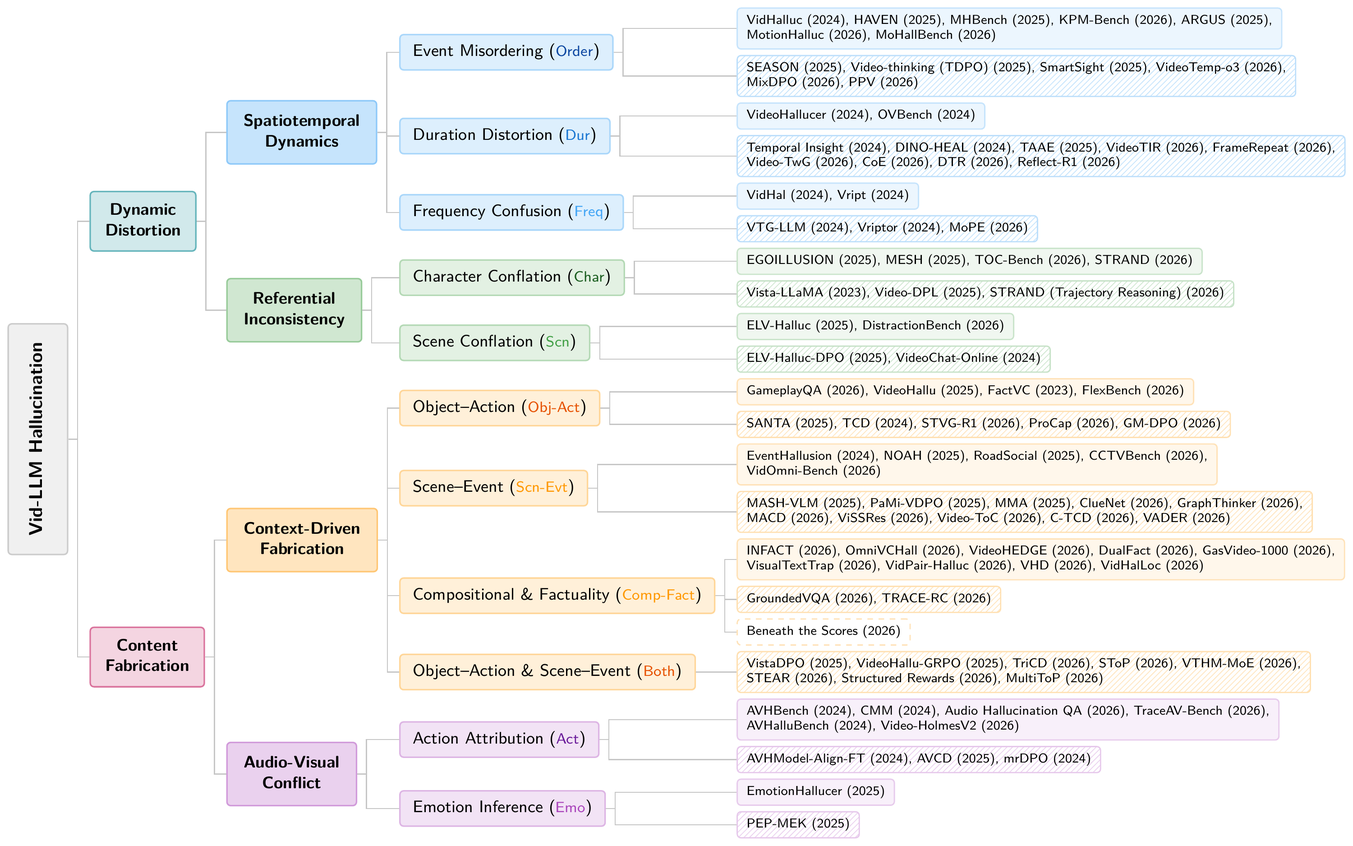
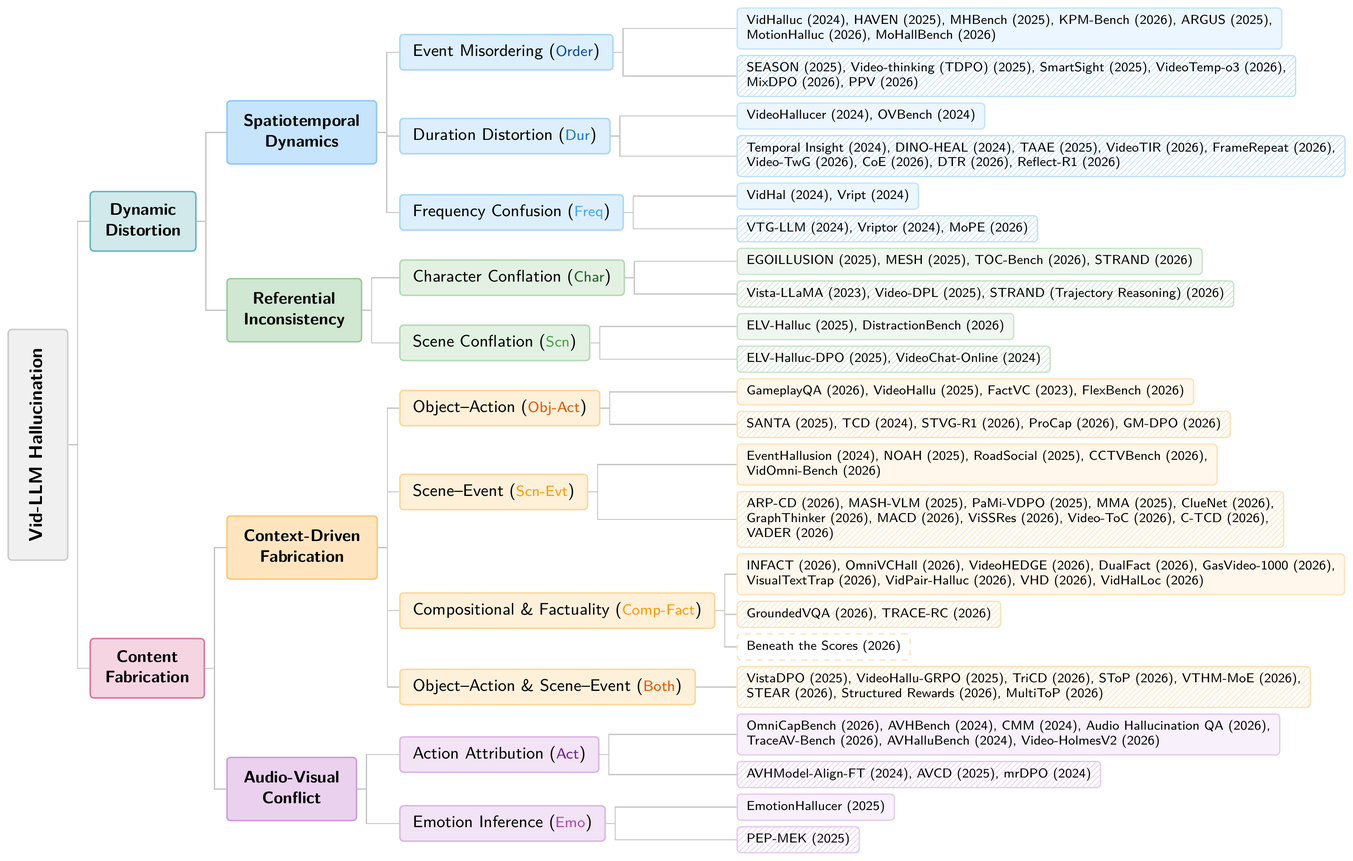
Curate November video hallucination papers and refresh taxonomy

diff --git a/figs/taxonomy_tree.tex b/figs/taxonomy_tree.tex
@@ -96,7 +96,7 @@
         ]
         [{Scene--Event ({\footnotesize\textcolor{coocSE}{Scn-Evt}})}, L2C
           [{EventHallusion (2024), NOAH (2025), RoadSocial (2025), CCTVBench (2026),\\VidOmni-Bench (2026)}, benchC]
-          [{MASH-VLM (2025), PaMi-VDPO (2025), MMA (2025), ClueNet (2026), GraphThinker (2026),\\MACD (2026), ViSSRes (2026), Video-ToC (2026), C-TCD (2026), VADER (2026)}, methC]
+          [{ARP-CD (2026), MASH-VLM (2025), PaMi-VDPO (2025), MMA (2025), ClueNet (2026),\\GraphThinker (2026), MACD (2026), ViSSRes (2026), Video-ToC (2026), C-TCD (2026),\\VADER (2026)}, methC]
         ]
         [{Compositional \& Factuality ({\footnotesize\textcolor{coocSE}{Comp-Fact}})}, L2C
           [{INFACT (2026), OmniVCHall (2026), VideoHEDGE (2026), DualFact (2026), GasVideo-1000 (2026),\\VisualTextTrap (2026), VidPair-Halluc (2026), VHD (2026), VidHalLoc (2026)}, benchC]
@@ -109,7 +109,7 @@
       ]
       [{\textbf{Audio-Visual}\\\textbf{Conflict}}, L1V
         [{Action Attribution ({\footnotesize\textcolor{audioAA}{Act}})}, L2V
-          [{AVHBench (2024), CMM (2024), Audio Hallucination QA (2026), TraceAV-Bench (2026),\\AVHalluBench (2024), Video-HolmesV2 (2026)}, benchV]
+          [{OmniCapBench (2026), AVHBench (2024), CMM (2024), Audio Hallucination QA (2026),\\TraceAV-Bench (2026), AVHalluBench (2024), Video-HolmesV2 (2026)}, benchV]
           [{AVHModel-Align-FT (2024), AVCD (2025), mrDPO (2024)}, methV]
         ]
         [{Emotion Inference ({\footnotesize\textcolor{audioEI}{Emo}})}, L2V

diff --git a/tests/test_readme.py b/tests/test_readme.py
@@ -34,18 +34,18 @@ class ReadmeTests(unittest.TestCase):
     def test_sorting_does_not_mutate_catalog(self):
         before = copy.deepcopy(self.entries)
         ordered = newest_first(self.entries, self.metadata['papers'])
-        self.assertEqual(ordered[0]['arxiv_id'], '2609.36628')
+        self.assertEqual(ordered[0]['arxiv_id'], '2610.19728')
         self.assertEqual(ordered[-1]['arxiv_id'], '2303.02961')
         self.assertEqual(self.entries, before)
 
     def test_recent_additions_use_history_and_link_all_sibling_contributions(self):
         output = recently_added(self.entries, self.metadata)
-        self.assertIn('2026-10-01 &middot; 7 papers', output)
+        self.assertIn('2026-11-01 &middot; 2 papers', output)
         self.assertNotIn('<details open>', output)
         doc = Document()
         doc.feed(output)
         expected = [anchor(e) for e in self.entries
-                    if self.metadata['papers'][e['arxiv_id'] or e['paper_url']]['added']['date'] == '2026-10-01']
+                    if self.metadata['papers'][e['arxiv_id'] or e['paper_url']]['added']['date'] == '2026-11-01']
         self.assertCountEqual([href[1:] for href in doc.links if href.startswith('#')], expected)
 
     def test_unknown_addition_dates_are_not_invented_and_large_batches_are_bounded(self):

diff --git a/scripts/generate_relevance_review.py b/scripts/generate_relevance_review.py
@@ -52,6 +52,9 @@ def render(data, metadata):
              'and captioning model have broader purposes. Do not transfer a subset-level claim to the whole suite.',
              '- **VHD / TRACE-RC:** the method changes reliability ordering and accepted coverage, not model answers. '
              'Its placement among mitigation strategies means selective risk reduction, not factual correction.',
+             '- **OmniCapBench:** a broader audio-visual captioning benchmark whose localized precision penalizes '
+             'unsupported descriptions. Structural deficits and semantic hallucination measures are not interchangeable; '
+             'the Action Attribution index does not imply exclusive coverage.',
              '- **FactVC and Temporal Insight:** retain their explicit factuality/temporal-hallucination framing, '
              'but note that caption factuality or timestamp localization is not interchangeable with generative '
              'VideoLLM hallucination metrics.', '',

diff --git a/README.md b/README.md
@@ -1,12 +1,12 @@
 # Awesome-Video-Hallucination [![Awesome](https://awesome.re/badge.svg)](https://awesome.re)
 
-[![arXiv](https://img.shields.io/badge/arXiv-2604.12944-b31b1b.svg)](https://arxiv.org/abs/2604.12944) [![ACL 2026 Findings](https://img.shields.io/badge/ACL%202026-Findings-2ea44f)](https://arxiv.org/abs/2604.12944) [![Entries](https://img.shields.io/badge/Entries-95-blue.svg)](#evaluation-benchmarks) [![Auto arXiv Update](https://img.shields.io/badge/arXiv%20Update-Monthly-blueviolet.svg)](new_papers.md) [![License: MIT](https://img.shields.io/badge/License-MIT-yellow.svg)](LICENSE) [![Last Commit](https://img.shields.io/github/last-commit/hukcc/Awesome-Video-Hallucination)](https://github.com/hukcc/Awesome-Video-Hallucination/commits/main)
+[![arXiv](https://img.shields.io/badge/arXiv-2604.12944-b31b1b.svg)](https://arxiv.org/abs/2604.12944) [![ACL 2026 Findings](https://img.shields.io/badge/ACL%202026-Findings-2ea44f)](https://arxiv.org/abs/2604.12944) [![Entries](https://img.shields.io/badge/Entries-97-blue.svg)](#evaluation-benchmarks) [![Auto arXiv Update](https://img.shields.io/badge/arXiv%20Update-Monthly-blueviolet.svg)](new_papers.md) [![License: MIT](https://img.shields.io/badge/License-MIT-yellow.svg)](LICENSE) [![Last Commit](https://img.shields.io/github/last-commit/hukcc/Awesome-Video-Hallucination)](https://github.com/hukcc/Awesome-Video-Hallucination/commits/main)
 
-A curated paper list on **hallucination in Video Large Language Models (Vid-LLMs)**, covering **42 benchmarks**, **52 mitigation methods**, and **1 evaluation analysis**. The 95 entries represent 78 distinct papers; a paper may contribute both a benchmark and a method. Updated monthly via arXiv search and manual review.
+A curated paper list on **hallucination in Video Large Language Models (Vid-LLMs)**, covering **43 benchmarks**, **53 mitigation methods**, and **1 evaluation analysis**. The 97 entries represent 80 distinct papers; a paper may contribute both a benchmark and a method. Updated monthly via arXiv search and manual review.
 
 > 📄 **Survey Paper**: *[Distorted or Fabricated? A Survey on Hallucination in Video LLMs](https://arxiv.org/abs/2604.12944)*
 
-> 🔎 **Interactive Browser**: [Browse 78 papers](https://hukcc.github.io/Awesome-Video-Hallucination/) with source-backed summaries, task tags, combined filters, and table or card views.
+> 🔎 **Interactive Browser**: [Browse 80 papers](https://hukcc.github.io/Awesome-Video-Hallucination/) with source-backed summaries, task tags, combined filters, and table or card views.
 
 ![Framework overview](imgs/teaser.png)
 
@@ -14,8 +14,8 @@ A curated paper list on **hallucination in Video Large Language Models (Vid-LLMs
 
 - [Find Your Papers](#find-your-papers)
 - [Taxonomy of Video Hallucinations](#taxonomy-of-video-hallucinations)
-- [Evaluation Benchmarks](#evaluation-benchmarks) — 42 benchmarks
-- [Mitigation Strategies](#mitigation-strategies) — 52 methods
+- [Evaluation Benchmarks](#evaluation-benchmarks) — 43 benchmarks
+- [Mitigation Strategies](#mitigation-strategies) — 53 methods
 - [Evaluation Analyses](#evaluation-analyses) — 1 analysis
 - [Citation](#citation)
 - [Contributing](#contributing)
@@ -24,9 +24,9 @@ A curated paper list on **hallucination in Video Large Language Models (Vid-LLMs
 
 ## Latest Updates
 
+- **[2026/11]** Added OmniCapBench and ARP-CD after reviewing 7 candidates. [Review log](new_papers.md#reviewed---2026-11-01).
 - **[2026/10]** Added 7 papers, introduced evaluation analyses, and updated the taxonomy. [Review log](new_papers.md).
 - **[2026/09]** Added 2 hallucination mitigation papers.
-- **[2026/08]** Added 6 papers and updated the taxonomy.
 - **[2026/04]** Our [survey](https://arxiv.org/abs/2604.12944) was accepted to **ACL 2026 Findings**.
 
 <!-- BEGIN RECENT PAPERS -->
@@ -65,14 +65,15 @@ A curated paper list on **hallucination in Video Large Language Models (Vid-LLMs
 #### Browse by Task
 
 <details>
-<summary><b>Task index</b> &middot; 9 topics &middot; 78 papers</summary>
+<summary><b>Task index</b> &middot; 9 topics &middot; 80 papers</summary>
 
 <p><sub>Paper-level task tags. Newest first; links lead to individual contributions below.</sub></p>
 
 <details>
-<summary><b>Audio-Visual Understanding</b> (10 papers)</summary>
+<summary><b>Audio-Visual Understanding</b> (11 papers)</summary>
 
 <p>
+<a href="#paper-benchmark--audio-visual-conflict--action-attribution--omnicapbench--2610-12458">OmniCapBench</a> &middot;
 <a href="#paper-benchmark--audio-visual-conflict--action-attribution--video-holmesv2--2609-17248">Video-HolmesV2</a> &middot;
 <a href="#paper-benchmark--audio-visual-conflict--action-attribution--traceav-bench--2605-07593">TraceAV-Bench</a> &middot;
 <a href="#paper-benchmark--audio-visual-conflict--action-attribution--audio-hallucination-qa--2604-23860">Audio Hallucination QA</a> &middot;
@@ -88,9 +89,10 @@ A curated paper list on **hallucination in Video Large Language Models (Vid-LLMs
 </details>
 
 <details>
-<summary><b>Hallucination Detection</b> (24 papers)</summary>
+<summary><b>Hallucination Detection</b> (25 papers)</summary>
 
 <p>
+<a href="#paper-benchmark--audio-visual-conflict--action-attribution--omnicapbench--2610-12458">OmniCapBench</a> &middot;
 <a href="#paper-analysis--context-driven-fabrication--compositional-and-factuality-hallucination--beneath-the-scores--2609-28991">Beneath the Scores</a> &middot;
 <a href="#paper-benchmark--context-driven-fabrication--scene-event-hallucination--vidomni-bench--2609-21521">VidOmni-Bench</a> &middot;
 <a href="#paper-benchmark--context-driven-fabrication--compositional-and-factuality-hallucination--vhd--2609-13288">VHD</a> / <a href="#paper-mitigation--context-driven-fabrication--compositional-and-factuality-hallucination--trace-rc--2609-13288">TRACE-RC</a> &middot;
@@ -155,9 +157,10 @@ A curated paper list on **hallucination in Video Large Language Models (Vid-LLMs
 </details>
 
 <details>
-<summary><b>Temporal Grounding</b> (7 papers)</summary>
+<summary><b>Temporal Grounding</b> (8 papers)</summary>
 
 <p>
+<a href="#paper-benchmark--audio-visual-conflict--action-attribution--omnicapbench--2610-12458">OmniCapBench</a> &middot;
 <a href="#paper-mitigation--spatiotemporal-dynamics--duration-distortion--video-twg--2602-18702">Video-TwG</a> &middot;
 <a href="#paper-mitigation--context-driven-fabrication--scene-event-hallucination--graphthinker--2602-17555">GraphThinker</a> &middot;
 <a href="#paper-mitigation--context-driven-fabrication--object-action-hallucination--stvg-r1--2602-11730">STVG-R1</a> &middot;
@@ -170,9 +173,11 @@ A curated paper list on **hallucination in Video Large Language Models (Vid-LLMs
 </details>
 
 <details>
-<summary><b>Video Captioning</b> (15 papers)</summary>
+<summary><b>Video Captioning</b> (17 papers)</summary>
 
 <p>
+<a href="#paper-mitigation--context-driven-fabrication--scene-event-hallucination--arp-cd--2610-19728">ARP-CD</a> &middot;
+<a href="#paper-benchmark--audio-visual-conflict--action-attribution--omnicapbench--2610-12458">OmniCapBench</a> &middot;
 <a href="#paper-benchmark--context-driven-fabrication--object-action-hallucination--flexbench--2609-36628">FlexBench</a> / <a href="#paper-mitigation--context-driven-fabrication--object-action-hallucination--gm-dpo--2609-36628">GM-DPO</a> &middot;
 <a href="#paper-benchmark--context-driven-fabrication--scene-event-hallucination--vidomni-bench--2609-21521">VidOmni-Bench</a> &middot;
 <a href="#paper-benchmark--context-driven-fabrication--compositional-and-factuality-hallucination--vidhalloc--2609-09895">VidHalLoc</a> &middot;
@@ -193,9 +198,10 @@ A curated paper list on **hallucination in Video Large Language Models (Vid-LLMs
 </details>
 
 <details>
-<summary><b>Video QA</b> (41 papers)</summary>
+<summary><b>Video QA</b> (42 papers)</summary>
 
 <p>
+<a href="#paper-mitigation--context-driven-fabrication--scene-event-hallucination--arp-cd--2610-19728">ARP-CD</a> &middot;
 <a href="#paper-analysis--context-driven-fabrication--compositional-and-factuality-hallucination--beneath-the-scores--2609-28991">Beneath the Scores</a> &middot;
 <a href="#paper-benchmark--audio-visual-conflict--action-attribution--video-holmesv2--2609-17248">Video-HolmesV2</a> &middot;
 <a href="#paper-benchmark--context-driven-fabrication--compositional-and-factuality-hallucination--vhd--2609-13288">VHD</a> / <a href="#paper-mitigation--context-driven-fabrication--compositional-and-factuality-hallucination--trace-rc--2609-13288">TRACE-RC</a> &middot;
@@ -374,7 +380,7 @@ A curated paper list on **hallucination in Video Large Language Models (Vid-LLMs
         <sub><a href="#paper-mitigation--spatiotemporal-dynamics--event-misordering--ppv--2606-23061">Related method: PPV</a></sub></td>
       <td align="center"><b>MotionHalluc</b></td>
       <td align="center">arXiv 2026<br><sub>06/2026</sub></td>
-      <td align="center"><a href="https://huggingface.co/datasets/motionhalluc/MotionHalluc"><img src="https://img.shields.io/badge/Dataset-HuggingFace-yellow?logo=huggingface" alt="dataset" title="Dataset" /></a></td>
+      <td align="center"><a href="https://github.com/Leocoding0971/MotionHalluc"><img src="https://img.shields.io/badge/Code-Link-blue?logo=github" alt="code" title="Code" /></a> <a href="https://huggingface.co/datasets/motionhalluc/MotionHalluc"><img src="https://img.shields.io/badge/Dataset-HuggingFace-yellow?logo=huggingface" alt="dataset" title="Dataset" /></a></td>
     </tr>
     <tr>
       <td align="left"><a id="paper-benchmark--spatiotemporal-dynamics--event-misordering--kpm-bench--2602-17768"></a><b><a href="https://arxiv.org/abs/2602.17768">KPM-Bench: A Kinematic Parsing Motion Benchmark for Fine-grained Motion-centric Video Understanding</a></b><br>
@@ -759,7 +765,7 @@ A curated paper list on **hallucination in Video Large Language Models (Vid-LLMs
 ### 🟣 Audio-Visual Conflict Benchmarks (Content Fabrication)
 
 <details open>
-<summary><b>Action Attribution</b> (6 entries)</summary>
+<summary><b>Action Attribution</b> (7 entries)</summary>
 
 <table width="100%">
   <thead>
@@ -771,6 +777,13 @@ A curated paper list on **hallucination in Video Large Language Models (Vid-LLMs
     </tr>
   </thead>
   <tbody>
+    <tr>
+      <td align="left"><a id="paper-benchmark--audio-visual-conflict--action-attribution--omnicapbench--2610-12458"></a><b><a href="https://arxiv.org/abs/2610.12458">OmniCapBench: A Deep-Structured Evaluation Framework for Fine-Grained Audio-Visual Captioning</a></b><br>
+        <sub>Evaluates structured audio-visual captions using grounded precision, identity consistency, and event-shot association to expose hallucinated descriptions and cross-modal attribution errors.</sub></td>
+      <td align="center"><b>OmniCapBench</b></td>
+      <td align="center">NeurIPS 2026 E&amp;D<br><sub>10/2026</sub></td>
+      <td align="center"><a href="https://01yzzyu.github.io/OmniCapBench/"><img src="https://img.shields.io/badge/Page%20%F0%9F%94%97-Link-228B22?logo=readthedocs&amp;logoColor=white" alt="page" title="Project Page" /></a> <a href="https://github.com/Tencent-Hunyuan/OmniCapBench"><img src="https://img.shields.io/badge/Code-Link-blue?logo=github" alt="code" title="Code" /></a> <a href="https://huggingface.co/datasets/OmniCapBench/OmniCapBench"><img src="https://img.shields.io/badge/Dataset-HuggingFace-yellow?logo=huggingface" alt="dataset" title="Dataset" /></a> <a href="https://01yzzyu.github.io/OmniCapBench/#leaderboard"><img src="https://img.shields.io/badge/Page%20%F0%9F%94%97-Leaderboard-228B22?logo=readthedocs&amp;logoColor=white" alt="leaderboard" title="Leaderboard" /></a></td>
+    </tr>
     <tr>
       <td align="left"><a id="paper-benchmark--audio-visual-conflict--action-attribution--video-holmesv2--2609-17248"></a><b><a href="https://arxiv.org/abs/2609.17248">Video-HolmesV2: Can MLLMs Reason with Spatio-Temporal Audio-Visual Evidence in Long Videos?</a></b><br>
         <sub>Requires long-video answers to cite precise audio-visual evidence, using evidence-aware scoring to penalize guessing and fabricated support.</sub></td>
@@ -877,7 +890,7 @@ A curated paper list on **hallucination in Video Large Language Models (Vid-LLMs
       <td align="center"><b>PPV</b></td>
       <td align="center">arXiv 2026<br><sub>06/2026</sub></td>
       <td align="center"><span title="Training-free: Yes">✔</span></td>
-      <td align="center"><a href="https://huggingface.co/datasets/motionhalluc/MotionHalluc"><img src="https://img.shields.io/badge/Dataset-HuggingFace-yellow?logo=huggingface" alt="dataset" title="Dataset" /></a></td>
+      <td align="center"><a href="https://github.com/Leocoding0971/MotionHalluc"><img src="https://img.shields.io/badge/Code-Link-blue?logo=github" alt="code" title="Code" /></a> <a href="https://huggingface.co/datasets/motionhalluc/MotionHalluc"><img src="https://img.shields.io/badge/Dataset-HuggingFace-yellow?logo=huggingface" alt="dataset" title="Dataset" /></a></td>
     </tr>
     <tr>
       <td align="left"><a id="paper-mitigation--spatiotemporal-dynamics--event-misordering--videotemp-o3--2602-07801"></a><b><a href="https://arxiv.org/abs/2602.07801">VideoTemp-o3: Harmonizing Temporal Grounding and Video Understanding in Agentic Thinking-with-Videos</a></b><br>
@@ -1209,7 +1222,7 @@ A curated paper list on **hallucination in Video Large Language Models (Vid-LLMs
 </details>
 
 <details open>
-<summary><b>Scene-Event Hallucination</b> (10 entries)</summary>
+<summary><b>Scene-Event Hallucination</b> (11 entries)</summary>
 
 <table width="100%">
   <thead>
@@ -1222,6 +1235,14 @@ A curated paper list on **hallucination in Video Large Language Models (Vid-LLMs
     </tr>
   </thead>
   <tbody>
+    <tr>
+      <td align="left"><a id="paper-mitigation--context-driven-fabrication--scene-event-hallucination--arp-cd--2610-19728"></a><b><a href="https://arxiv.org/abs/2610.19728">Mitigating Video Hallucinations via Attention-Guided Representation Perturbation</a></b><br>
+        <sub>Constructs attention-suppressed visual representations as contrastive decoding negatives to reduce unsupported video responses without updating model parameters.</sub></td>
+      <td align="center"><b>ARP-CD</b></td>
+      <td align="center">arXiv 2026<br><sub>10/2026</sub></td>
+      <td align="center"><span title="Training-free: Yes">✔</span></td>
+      <td align="center">-</td>
+    </tr>
     <tr>
       <td align="left"><a id="paper-mitigation--context-driven-fabrication--scene-event-hallucination--vader--2608-08622"></a><b><a href="https://arxiv.org/abs/2608.08622">VADER: Adaptive Debiasing for Hallucination Mitigation in Video Large Language Models</a></b><br>
         <sub>Adaptively reweights visual attention and contrasts selectively erased evidence to suppress prior-driven video hallucinations without training.</sub></td>
@@ -1572,8 +1593,8 @@ See the [curation guide](docs/CURATION.md) for summary sources, task-tag definit
 
 Resource gaps tracked in [`data/papers.json`](data/papers.json):
 
-- Add official code links for **47** entries. Browse: [missing code](https://hukcc.github.io/Awesome-Video-Hallucination/?resource=missing-code)
-- Add official project pages for **78** entries. Browse: [missing project pages](https://hukcc.github.io/Awesome-Video-Hallucination/?resource=missing-project)
+- Add official code links for **46** entries. Browse: [missing code](https://hukcc.github.io/Awesome-Video-Hallucination/?resource=missing-code)
+- Add official project pages for **79** entries. Browse: [missing project pages](https://hukcc.github.io/Awesome-Video-Hallucination/?resource=missing-project)
 - Add official dataset or leaderboard links when available.
 
 <details>

diff --git a/docs/RELEVANCE_REVIEW.md b/docs/RELEVANCE_REVIEW.md
@@ -2,9 +2,9 @@
 
 Editorial scope assessment, not a quality ranking or a removal decision. All existing papers, contributions, links, and taxonomy placements remain unchanged.
 
-Coverage: **78 papers / 95 contributions**. All abstracts were reviewed; **21 papers** additionally received introduction review, with evaluation sections inspected where indicated. This is not a full-text audit of every paper.
+Coverage: **80 papers / 97 contributions**. All abstracts were reviewed; **25 papers** additionally received introduction review, with evaluation sections inspected where indicated. This is not a full-text audit of every paper.
 
-Latest review: **2026-10-01**. **59 direct-focus**, **11 broader-evaluation**, and **8 related-work candidates**.
+Latest review: **2026-11-01**. **60 direct-focus**, **12 broader-evaluation**, and **8 related-work candidates**.
 
 ## Criteria
 
@@ -25,6 +25,7 @@ Do **not** exclude OVBench, RoadSocial, CoE, Video-ToC, or SToP solely from thei
 - **OVBench / VideoChat-Online:** the Temporal Hallucination Verification subset justifies paper-level inclusion; the model is still a general streaming-video architecture, not a dedicated mitigation design.
 - **Vript / Vriptor:** Vript-HAL is a hallucination benchmark, while the corpus, other benchmark tasks, and captioning model have broader purposes. Do not transfer a subset-level claim to the whole suite.
 - **VHD / TRACE-RC:** the method changes reliability ordering and accepted coverage, not model answers. Its placement among mitigation strategies means selective risk reduction, not factual correction.
+- **OmniCapBench:** a broader audio-visual captioning benchmark whose localized precision penalizes unsupported descriptions. Structural deficits and semantic hallucination measures are not interchangeable; the Action Attribution index does not imply exclusive coverage.
 - **FactVC and Temporal Insight:** retain their explicit factuality/temporal-hallucination framing, but note that caption factuality or timestamp localization is not interchangeable with generative VideoLLM hallucination metrics.
 
 ## Evidence Register
@@ -50,6 +51,7 @@ Each row links both the existing README contribution and the exact reviewed sour
 | --- | --- | --- |
 | [CoE](../README.md#paper-mitigation--spatiotemporal-dynamics--duration-distortion--coe--2601-07761) | General evidence-grounded reasoning framework explicitly evaluates mitigation on VidHal and EventHall, beyond its general QA results. | [Abstract; Introduction; Sections 4.1-4.2 (VidHal and EventHall evaluation)](https://arxiv.org/html/2601.07761v2) |
 | [GameplayQA](../README.md#paper-benchmark--context-driven-fabrication--object-action-hallucination--gameplayqa--2603-24329) | Agent-centric video understanding benchmark explicitly diagnoses temporal, role, and fabricated-content errors through structured distractors. | [Abstract; Introduction (structured distractor taxonomy)](https://arxiv.org/html/2603.24329v2) |
+| [OmniCapBench](../README.md#paper-benchmark--audio-visual-conflict--action-attribution--omnicapbench--2610-12458) | Broader audio-visual captioning benchmark with explicit prediction-to-reference precision penalizing hallucinated descriptions and dedicated sound-to-shot and speaker-attribution diagnostics. | [Abstract; Introduction; Sections 3.2 and 4.1-4.3; Table 4](https://arxiv.org/html/2610.12458v1) |
 | [OVBench](../README.md#paper-benchmark--spatiotemporal-dynamics--duration-distortion--ovbench--2501-00584) / [VideoChat-Online](../README.md#paper-mitigation--referential-inconsistency--scene-conflation--videochat-online--2501-00584) | General streaming-video benchmark with a dedicated Temporal Hallucination Verification task; do not describe the entire benchmark or VideoChat-Online as hallucination-specific. | [Abstract; Introduction; Section 3.1 and Table 1 (Temporal Hallucination Verification)](https://arxiv.org/html/2501.00584v2) |
 | [RoadSocial](../README.md#paper-benchmark--context-driven-fabrication--scene-event-hallucination--roadsocial--2503-21459) | Road-event VideoQA includes non-road videos and irrelevant/adversarial questions specifically testing hallucination robustness; the broad title does not justify exclusion. | [Abstract; Introduction (robustness evaluation contribution)](https://arxiv.org/html/2503.21459v1) |
 | [SToP](../README.md#paper-mitigation--context-driven-fabrication--both-object-action-scene-event--stop--2604-20937) | Token-pruning study explicitly diagnoses and evaluates hallucinations on EventHallusion. Retain as broader evaluation; it is not equivalent to excluded EchoPrune. | [Abstract; Introduction (EventHallusion comparison and pruning analysis)](https://arxiv.org/html/2604.20937v2) |
@@ -65,6 +67,7 @@ Each row links both the existing README contribution and the exact reviewed sour
 | Paper / Contributions | Reason | Inspected Evidence |
 | --- | --- | --- |
 | [ARGUS](../README.md#paper-benchmark--spatiotemporal-dynamics--event-misordering--argus--2506-07371) | Measures unsupported statements and omissions in free-form video captions against human descriptions. | [Abstract](https://arxiv.org/html/2506.07371v2) |
+| [ARP-CD](../README.md#paper-mitigation--context-driven-fabrication--scene-event-hallucination--arp-cd--2610-19728) | Explicitly targets unsupported VideoLLM responses through contrastive decoding and evaluates both VideoHallucer and EventHallusion; optimization changes input representations, not model parameters. | [Abstract; Introduction; Sections 3.3-3.4 and 4.1; Appendix A.1-A.2](https://arxiv.org/html/2610.19728v1) |
 | [Audio Hallucination QA](../README.md#paper-benchmark--audio-visual-conflict--action-attribution--audio-hallucination-qa--2604-23860) | Directly measures imagined sounds inferred from visible but inaudible events in egocentric videos. | [Abstract](https://arxiv.org/html/2604.23860v1) |
 | [AVCD](../README.md#paper-mitigation--audio-visual-conflict--action-attribution--avcd--2505-20862) | Dedicated audio-visual hallucination mitigation through modality-aware contrastive decoding. | [Abstract](https://arxiv.org/html/2505.20862v2) |
 | [AVHalluBench](../README.md#paper-benchmark--audio-visual-conflict--action-attribution--avhallubench--2405-13684) | Includes a dedicated audio-visual hallucination benchmark within a multimodal hallucination-ranking study. | [Abstract](https://arxiv.org/html/2405.13684v1) |
@@ -94,7 +97,7 @@ Each row links both the existing README contribution and the exact reviewed sour
 | [MixDPO](../README.md#paper-mitigation--spatiotemporal-dynamics--event-misordering--mixdpo--2601-04778) | Counterfactual action videos and preference learning explicitly target action and temporal hallucinations. | [Abstract](https://arxiv.org/html/2601.04778v2) |
 | [MMA](../README.md#paper-mitigation--context-driven-fabrication--scene-event-hallucination--mma--hallucination-reduction-in-video-language-models-via-hierarchical-multimodal-consistency) | Publisher abstract explicitly targets video-language hallucination through hierarchical semantic alignment. | [Abstract](https://www.ijcai.org/proceedings/2025/1019) |
 | [MoHallBench](../README.md#paper-benchmark--spatiotemporal-dynamics--event-misordering--mohallbench--2607-01117) | Explicitly tests motions absent from video and distinguishes recognition from hallucination resistance. | [Abstract](https://arxiv.org/html/2607.01117v2) |
-| [MotionHalluc](../README.md#paper-benchmark--spatiotemporal-dynamics--event-misordering--motionhalluc--2606-23061) / [PPV](../README.md#paper-mitigation--spatiotemporal-dynamics--event-misordering--ppv--2606-23061) | Dedicated paired-video motion hallucination diagnosis with measurement-based verification. | [Abstract](https://arxiv.org/html/2606.23061v1) |
+| [MotionHalluc](../README.md#paper-benchmark--spatiotemporal-dynamics--event-misordering--motionhalluc--2606-23061) / [PPV](../README.md#paper-mitigation--spatiotemporal-dynamics--event-misordering--ppv--2606-23061) | Dedicated paired-video motion hallucination diagnosis with measurement-based verification. | [Abstract; Introduction; Sections 3.2 and 4](https://arxiv.org/html/2606.23061v2) |
 | [mrDPO](../README.md#paper-mitigation--audio-visual-conflict--action-attribution--mrdpo--2410-06682) | Captioning training explicitly optimizes hallucination and omission rates for audio-visual events. | [Abstract; Introduction (caption hallucination-rate evaluation)](https://arxiv.org/html/2410.06682v2) |
 | [MultiToP](../README.md#paper-mitigation--context-driven-fabrication--both-object-action-scene-event--multitop--2606-11792) | Explicit video hallucination mitigation through learned visual token patching, evaluated on Vript-HAL. | [Abstract](https://arxiv.org/html/2606.11792v2) |
 | [NOAH](../README.md#paper-benchmark--context-driven-fabrication--scene-event-hallucination--noah--2511-06475) | Controlled clip insertions measure narrative-prior hallucinations and omissions in video outputs. | [Abstract](https://arxiv.org/html/2511.06475v1) |
@@ -117,7 +120,7 @@ Each row links both the existing README contribution and the exact reviewed sour
 | [VidHal](../README.md#paper-benchmark--spatiotemporal-dynamics--frequency-confusion--vidhal--2411-16771) | Dedicated temporal hallucination benchmark with captions ordered by factual distortion. | [Abstract](https://arxiv.org/html/2411.16771v3) |
 | [VidHalLoc](../README.md#paper-benchmark--context-driven-fabrication--compositional-and-factuality-hallucination--vidhalloc--2609-09895) | Dedicated evaluation of video hallucination detectors on adversarial questions and captions. | [Abstract](https://arxiv.org/html/2609.09895v1) |
 | [VidHalluc](../README.md#paper-benchmark--spatiotemporal-dynamics--event-misordering--vidhalluc--2412-03735) / [DINO-HEAL](../README.md#paper-mitigation--spatiotemporal-dynamics--duration-distortion--dino-heal--2412-03735) | Explicitly evaluates video action, event-order, and transition hallucinations and introduces a mitigation intervention. | [Abstract](https://arxiv.org/html/2412.03735v2) |
-| [VidOmni-Bench](../README.md#paper-benchmark--context-driven-fabrication--scene-event-hallucination--vidomni-bench--2609-21521) | Directly tests whether generated caption events are supported by video and measures hallucination detection failures. | [Abstract](https://arxiv.org/html/2609.21521v1) |
+| [VidOmni-Bench](../README.md#paper-benchmark--context-driven-fabrication--scene-event-hallucination--vidomni-bench--2609-21521) | Directly tests whether generated caption events are supported by video and measures hallucination detection failures. | [Abstract; Introduction; Sections 3.1-3.4](https://arxiv.org/html/2609.21521v2) |
 | [VidPair-Halluc](../README.md#paper-benchmark--context-driven-fabrication--compositional-and-factuality-hallucination--vidpair-halluc--2606-31933) | Dedicated spatial and temporal hallucination evaluation with background-controlled video pairs. | [Abstract](https://arxiv.org/html/2606.31933v1) |
 | [ViSSRes](../README.md#paper-mitigation--context-driven-fabrication--scene-event-hallucination--stscd--2601-22574) | Explicitly learns video representation residuals for hallucination mitigation and evaluates EventHallusion. | [Abstract](https://arxiv.org/html/2601.22574v2) |
 | [Vista-LLaMA](../README.md#paper-mitigation--referential-inconsistency--character-conflation--vista-llama--2312-08870) | Explicitly targets video-conditioned generation drifting into unsupported text through visual-text attention changes. | [Abstract](https://arxiv.org/html/2312.08870v2) |

diff --git a/new_papers.md b/new_papers.md
@@ -2,7 +2,43 @@
 
 > Auto-generated by `arxiv_search.py`. Please review and classify into the appropriate sections in `README.md`.
 
-## Update — 2026-11-01
+## Reviewed - 2026-11-01
+
+All seven candidates were reviewed against their official abstracts and introductions, using the current arXiv versions linked below. Method and evaluation sections were additionally inspected for the two admitted papers and the borderline causal-reasoning paper. Two papers were added, four video-generation/editing papers were excluded, and one adjacent-domain candidate remains pending manual scope review. The curated collection contains **97 contributions from 80 papers: 43 benchmarks, 53 mitigation methods, and one analysis**. All previously collected entries and the eight existing manual-review candidates are retained.
+
+### Added to the curated list
+
+| Paper | Entry and primary category | Source-backed inclusion rationale |
+| --- | --- | --- |
+| [OmniCapBench](https://arxiv.org/abs/2610.12458) | Benchmark. Audio-Visual Conflict / Action Attribution. | [Sections 3.2 and 4.1-4.3, including Table 4](https://arxiv.org/html/2610.12458v1#S3.SS2), explicitly separate hallucination-sensitive precision from omission-sensitive recall. Event-Shot Association and Speaker F1 diagnose cross-modal attribution. This is a **broader evaluation**, not a hallucination-only benchmark; the primary index does not exclude its identity, temporal, and factuality coverage. |
+| [ARP-CD](https://arxiv.org/abs/2610.19728) | Mitigation. Context-Driven Fabrication / Scene-Event Hallucination. | [Sections 3.3-3.4 and 4.1, Appendix A.1-A.2](https://arxiv.org/html/2610.19728v1#S3.SS3), establish representation-level contrastive negatives and explicit VideoHallucer/EventHallusion evaluation. It is **training-free**: gradients optimize per-input visual states, not learned model parameters. The scene-event placement follows its contrastive-decoding peers; evaluation also covers other hallucination categories. |
+
+### Pending manual scope review (not added)
+
+- [From Cause to Effect: Generating Intermediate Event Chains in Videos](https://arxiv.org/abs/2610.26275): the [abstract, introduction, Sections 3.2, 4, 5.1-5.2, and Appendix N](https://arxiv.org/html/2610.26275v1) establish causal-chain generation, SODA-Embedding/Causal-QA, and SFT/GRPO training. Invented events are explicitly discussed, including qualitative examples, and the metrics probe missing or distorted causal facts. However, the reviewed evaluation reports semantic alignment and causal recoverability rather than a separately measured hallucination outcome. **Defer admission** under the narrower video-hallucination scope; this is not a claim of irrelevance. Neither its datasets nor its training recipe are automatically classified as dedicated hallucination contributions.
+
+### Excluded after review
+
+- [RoboWorM](https://arxiv.org/html/2610.33807v1#S1): the abstract and introduction evaluate physical and kinematic consistency of **generated robotic videos**, not unsupported language-model responses about input video.
+- [AnyGameRenderer](https://arxiv.org/html/2610.31466v3#S1): the abstract and introduction concern **video-to-video game rendering**. Hallucinated entities are extra rendered objects, not fabricated VideoLLM descriptions.
+- [HorizonComposer](https://arxiv.org/html/2610.28829v1#S1): the abstract and introduction concern **driving-video editing**. Structural hallucinations refer to corrupted visual traffic semantics.
+- [Risk Decomposition for Hallucination-Aware Video Sampling](https://arxiv.org/html/2610.26069v2#S1): the abstract and introduction target **physical plausibility of video generation** with HA-Sampler/HA-Scorer, not frame selection or hallucination mitigation for VideoLLM answers.
+
+### Metadata and resource verification
+
+- OmniCapBench was first submitted on **2026-10-08**; ARP-CD on **2026-10-14**. Both reviewed records are v1. November is their repository-addition month, not their publication month.
+- OmniCapBench's [author project](https://01yzzyu.github.io/OmniCapBench/) and [official code repository](https://github.com/Tencent-Hunyuan/OmniCapBench) identify **NeurIPS 2026, Evaluations & Datasets Track**. The linked OpenReview page presented a browser challenge during this review; the venue label is supported by the author pages and the arXiv acceptance comment, not an independently read OpenReview decision.
+- The author-linked [dataset](https://huggingface.co/datasets/OmniCapBench/OmniCapBench), code, project page, and [leaderboard](https://01yzzyu.github.io/OmniCapBench/#leaderboard) were verified. ARP-CD remains labeled arXiv 2026; no official release link was verified. A cited answer-parsing utility is not the ARP-CD implementation and is not advertised as its code.
+- Existing resource badges, prior contributor links, stable entry IDs, and exclusions including EchoPrune are preserved. No older paper was removed or reclassified.
+
+### Second-pass version review
+
+- The initial remote audit checked all 306 unique catalog, evidence, resource, and README badge URLs successfully. It flagged newer arXiv revisions for two existing papers; successful HTTP responses alone are not evidence of scientific correctness.
+- [MotionHalluc v2](https://arxiv.org/html/2606.23061v2): read the abstract, introduction, evaluation protocol in Section 3.2, and PPV pipeline in Section 4. The current expansion is **Perceive-Parse-Verify**, replacing the earlier display expansion **Plug-in Physical Verification** in the paper summary. The training-free status and existing placements remain supported. The paper links its now-verified [official code repository](https://github.com/Leocoding0971/MotionHalluc), which contains both benchmark evaluation and PPV examples; code badges were added to both existing contributions without replacing their dataset links.
+- [VidOmni-Bench v2](https://arxiv.org/html/2609.21521v2): read the abstract, introduction, and Sections 3.1-3.4. Sentence-level factual verification and human-labeled hallucinated captions remain explicit; the existing description and placement are retained. Both papers now cite the reviewed v2 evidence, preserving original publication and repository-addition dates.
+
+<details>
+<summary>Original discovery metadata (7 candidates)</summary>
 
 **7 new paper(s) found.**
 
@@ -68,6 +104,8 @@
 - **Abstract:** Multimodal large language models (MLLMs) are rapidly evolving toward continuous audio--visual reasoning, creating an urgent need for evaluations that expose their capability limits. Audio--visual captioning is an ideal diagnostic task, yet current benchmarks face a coupled trade-off: whole-caption scores provide coverage without localization, local probes provide localization without coverage, and unconstrained LLM judges introduce instability. We introduce OmniCapBench (Omni-Video Caption Benchmark), a benchmark that reframes audio--visual caption evaluation as a deep-structured diagnostic framework. OmniCapBench shifts the prediction target from free-form text to sets of atomic, verifiable evaluation units across three tracks: entity references, visual shots, and audio events, enabling reliable scoring with deterministic constraint checks and localized LLM-based semantic comparisons. With 786 densely annotated videos, OmniCapBench effectively distinguishes MLLM perception errors, including temporal grounding failures, identity drift, cross-modal misalignment, and **`hallucinated`** descriptions. Evaluating frontier MLLMs reveals strong local perception but weak long-horizon audio--visual reasoning, particularly in identity drift and cross-modal misalignment, providing a fine-grained roadmap for omnimodal development.
 
 ---
+
+</details>
 
 ### Browser Metadata Review - 2026-10-01
 

diff --git a/docs/CURATION.md b/docs/CURATION.md
@@ -112,6 +112,12 @@ This pass enriches discovery metadata; it does not claim a new full-text relevan
 
 The README description pass also checked the [HAVEN introduction](https://arxiv.org/html/2503.19622v1): TDPO means **thinking-based**, not temporal, direct preference optimization. The shared summary and method description use the source's terminology.
 
+## Review Note: 2026-11-01
+
+All seven November discoveries received official abstract and introduction review. OmniCapBench and ARP-CD were admitted after additional method/evaluation checks; four video-generation/editing papers were excluded. Causal Chain Generation remains an uncollected manual-review candidate because its reported metrics primarily assess semantic alignment and causal recoverability. See the [November decision log](../new_papers.md#reviewed---2026-11-01) for versioned evidence and resource provenance. The 95 existing contributions and eight existing scope-review candidates were preserved; this update does not claim a new full-text review of older papers.
+
+The remote audit also identified v2 revisions of MotionHalluc and VidOmni-Bench. Their abstracts, introductions, and relevant evaluation/method sections were checked before updating evidence links. MotionHalluc's summary now uses Perceive-Parse-Verify, and its official code links were added to the benchmark and PPV entries. Existing classifications, dataset links, publication dates, and addition records were retained.
+
 ## Icon Attribution
 
 The browser uses unmodified SVG assets from [Lucide 0.468.0](https://github.com/lucide-icons/lucide/tree/0.468.0/icons). Their license is retained in `assets/icons/LICENSE`. No runtime icon CDN is required.
